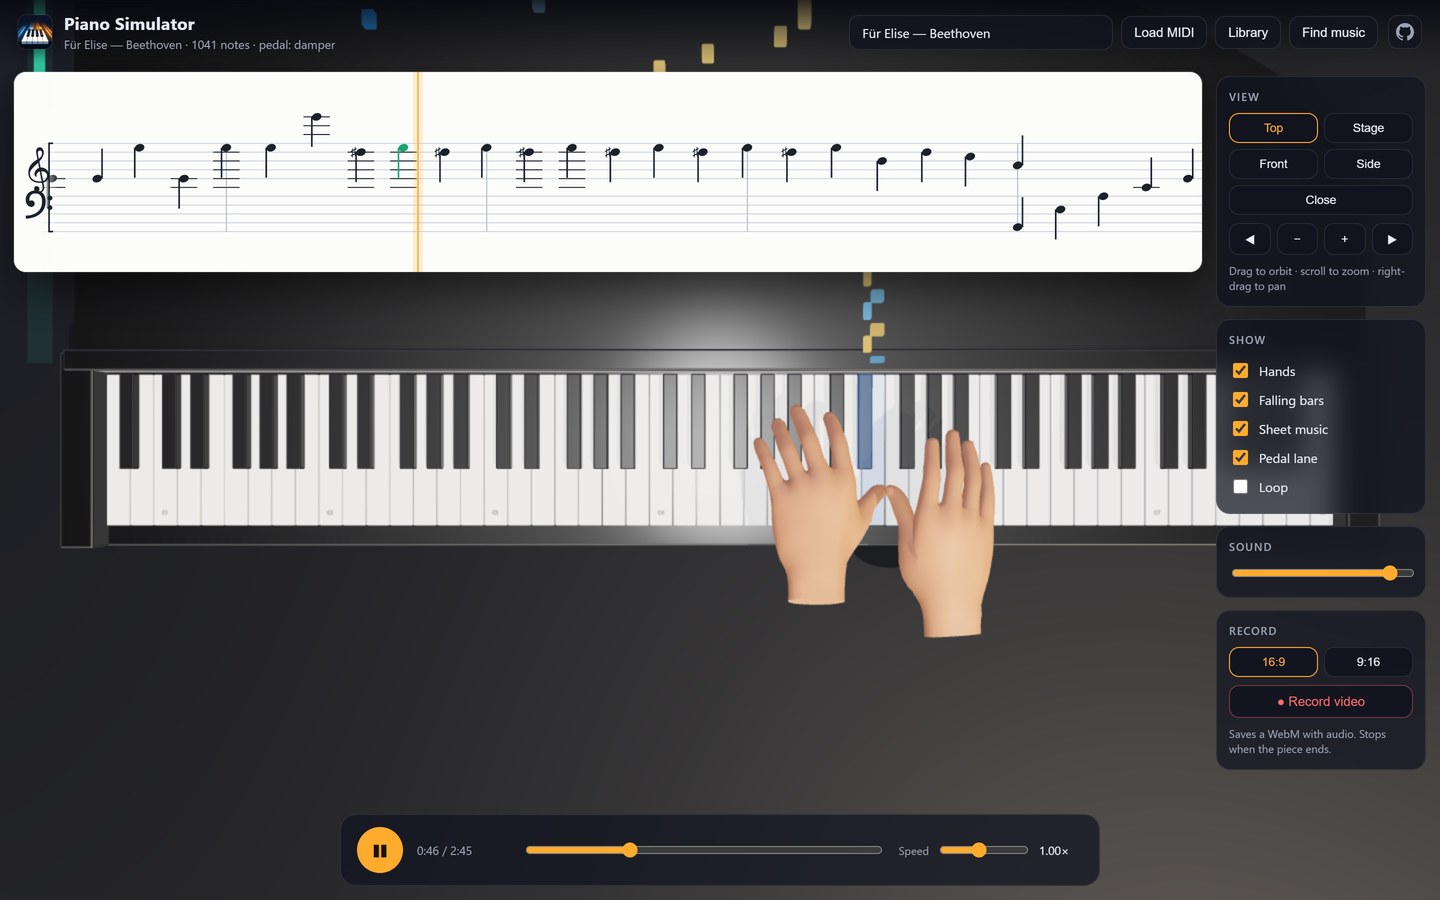
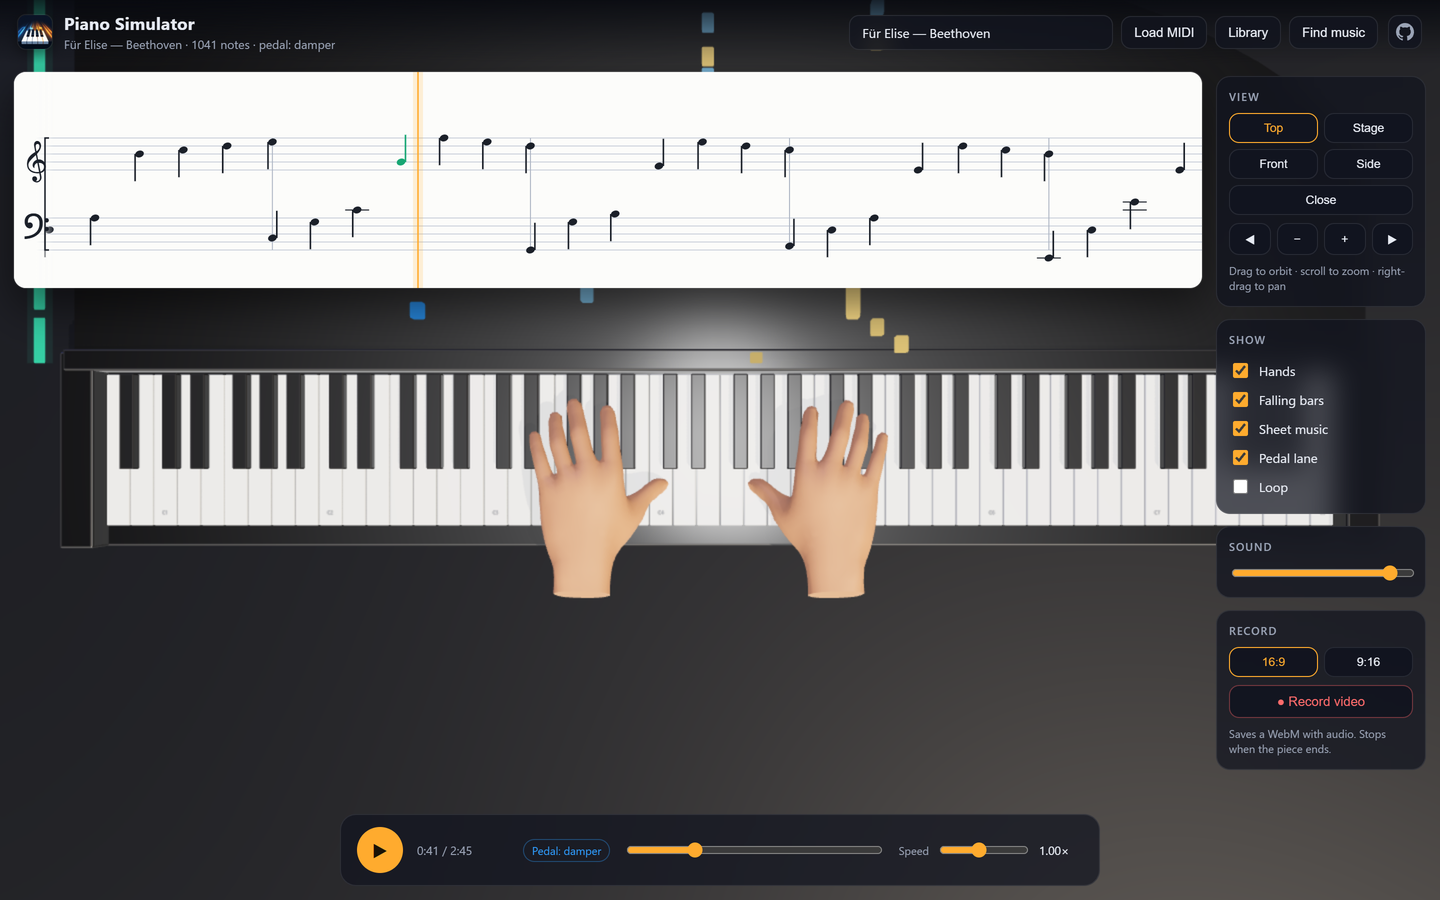
Open the gap between the two staves
The staves sat two line gaps apart, which reads as one crowded block.
A grand staff leaves about six gaps between the upper and lower staff,
so the layout now adds four gaps of air and the paper grows to hold it.

The lower staff also always reserves its own five lines, so a piece with
high notes only no longer draws that staff outside the paper.

diff --git a/src/score.js b/src/score.js
@@ -19,7 +19,7 @@ export const TREBLE_TOP_STEP = 38; // F5, the top line of the upper staff
 export const BASS_TOP_STEP = 26; // A3, the top line of the lower staff
 export const TREBLE_MID_STEP = 32; // G4, where the treble clef turns
 export const BASS_MID_STEP = 24; // F3, where the bass clef turns
-const STAFF_HALF_STEPS = 10; // five lines, four gaps, counted in steps
+const STAFF_STEPS = 8; // the steps between the outer lines of one staff
 
 export const PAD = 14; // paper above and below the staves, in px
 export const MAX_GAP = 11; // widest line gap, in px
@@ -27,6 +27,10 @@ export const MIN_GAP = 5.5; // narrowest line gap, in px
 export const HEAD_RX = 0.55; // notehead radius across, in line gaps
 export const HEAD_RY = 0.42; // notehead radius down, in line gaps
 export const STEM_LEN = 3.4; // stem length, in line gaps
+// Extra line gaps between the two staves of the grand staff. With the two gaps
+// the pitch grid already gives, the staves sit six gaps apart, which is the
+// spacing a printed piano score uses.
+export const STAFF_GAP = 4;
 export const CHUNK_SECONDS = 4; // how much music one scroll block holds
 export const PLAYHEAD_RATIO = 0.34; // where the notes cross the marker
 export const CHORD_WINDOW = 0.04; // notes this close share a stem, in seconds
@@ -150,8 +154,8 @@ export function layoutScore(notes, { bars = [], width = 1200, maxHeight = 190 } 
     .slice()
     .sort((a, b) => a.time - b.time || a.midi - b.midi);
 
-  let minStep = TREBLE_TOP_STEP - STAFF_HALF_STEPS;
-  let maxStep = TREBLE_TOP_STEP;
+  let minStep = BASS_TOP_STEP - STAFF_STEPS; // G2, the bottom line of the lower staff
+  let maxStep = TREBLE_TOP_STEP; // F5, the top line of the upper staff
   let midiMin = null;
   let midiMax = null;
   for (const note of sorted) {
@@ -163,13 +167,18 @@ export function layoutScore(notes, { bars = [], width = 1200, maxHeight = 190 } 
   }
 
   const topRef = Math.max(TREBLE_TOP_STEP, maxStep);
-  const bottomRef = Math.min(TREBLE_TOP_STEP - STAFF_HALF_STEPS, minStep);
+  const bottomRef = Math.min(BASS_TOP_STEP - STAFF_STEPS, minStep);
   const halfSteps = topRef - bottomRef;
-  const gap = clamp((maxHeight - 2 * PAD) / (halfSteps / 2), MIN_GAP, MAX_GAP);
-  const height = 2 * PAD + (halfSteps / 2) * gap;
+  // A grand staff leaves air between its two staves. The pitch grid already
+  // separates them by two line gaps, so STAFF_GAP adds the rest.
+  const gap = clamp((maxHeight - 2 * PAD) / (halfSteps / 2 + STAFF_GAP), MIN_GAP, MAX_GAP);
+  const staffShift = STAFF_GAP * gap;
+  const height = 2 * PAD + (halfSteps / 2) * gap + staffShift;
   const pxPerSecond = scrollSpeed(sorted, { width, gap });
 
-  const yOfStep = (step) => PAD + (topRef - step) * (gap / 2);
+  const yOfStep = (step, staff) => PAD + (topRef - step) * (gap / 2) + (staff === BASS ? staffShift : 0);
+  const trebleTopY = PAD + (topRef - TREBLE_TOP_STEP) * (gap / 2);
+  const bassTopY = trebleTopY + 6 * gap + staffShift;
   const glyphs = [];
   let i = 0;
   while (i < sorted.length) {
@@ -205,7 +214,17 @@ export function layoutScore(notes, { bars = [], width = 1200, maxHeight = 190 } 
     midiMin,
     midiMax,
     steps: { min: minStep, max: maxStep },
-    staves: { trebleTop: TREBLE_TOP_STEP, bassTop: BASS_TOP_STEP, topRef, bottomRef },
+    staves: {
+      trebleTop: TREBLE_TOP_STEP,
+      bassTop: BASS_TOP_STEP,
+      topRef,
+      bottomRef,
+      staffShift,
+      trebleTopY,
+      bassTopY,
+      bassBottomY: bassTopY + 4 * gap,
+      trebleBottomY: trebleTopY + 4 * gap,
+    },
     glyphs,
     bars: barSeconds,
     duration,
@@ -219,7 +238,7 @@ function glyphOf(chord, staff, { gap, yOfStep, pxPerSecond }) {
     return {
       midi: note.midi,
       step,
-      y: yOfStep(step),
+      y: yOfStep(step, staff),
       accidental,
       start: note.time,
       end: note.time + (note.duration || 0),
@@ -239,7 +258,7 @@ function glyphOf(chord, staff, { gap, yOfStep, pxPerSecond }) {
     : { x: -offset, y1: top, y2: bottom + STEM_LEN * gap };
 
   const ledgers = [...new Set(heads.flatMap((h) => ledgerStepsOf(h.step, staff)))].map((step) => ({
-    y: yOfStep(step),
+    y: yOfStep(step, staff),
     x1: -1.5 * gap,
     x2: 1.5 * gap,
   }));

diff --git a/src/scoreui.js b/src/scoreui.js
@@ -6,8 +6,8 @@
 // captures the canvas only, so the view hides the paper while a capture runs.
 
 import {
-  BASS, BASS_MID_STEP, HEAD_RX, HEAD_RY, PAD, TREBLE, TREBLE_MID_STEP,
-  layoutScore, staffTopStep,
+  BASS, BASS_MID_STEP, HEAD_RX, HEAD_RY, TREBLE, TREBLE_MID_STEP,
+  layoutScore,
 } from './score.js';
 
 const NS = 'http://www.w3.org/2000/svg';
@@ -114,7 +114,7 @@ export class ScoreView {
 
   _build() {
     const width = Math.max(260, Math.round(this.root.clientWidth || window.innerWidth * 0.7));
-    const maxHeight = Math.min(200, Math.max(96, window.innerHeight * 0.26));
+    const maxHeight = Math.min(216, Math.max(96, window.innerHeight * 0.28));
     const layout = layoutScore(this.notes, { bars: this.bars, width, maxHeight });
     this.layout = layout;
     this._clear();
@@ -162,19 +162,21 @@ export class ScoreView {
       SVG('rect', { x: 0, y: 0, width, height, fill: 'url(#sc-gutter)' }),
     );
 
-    const yOf = (step) => PAD + (layout.staves.topRef - step) * (gap / 2);
+    const staves = layout.staves;
+    const yOf = (step, staff) => (staff === BASS ? staves.bassTopY : staves.trebleTopY)
+      + ((staff === BASS ? staves.bassTop : staves.trebleTop) - step) * (gap / 2);
     const size = gap * 5;
     for (const [staff, step] of [[TREBLE, TREBLE_MID_STEP], [BASS, BASS_MID_STEP]]) {
       const clef = SVG('text', {
-        class: 'sc-clef', x: width * 0.56, y: yOf(step) + glyphOffset(CLEF[staff], size, CLEF_FONT),
+        class: 'sc-clef', x: width * 0.56, y: yOf(step, staff) + glyphOffset(CLEF[staff], size, CLEF_FONT),
         'font-size': size, 'text-anchor': 'middle',
       });
       clef.textContent = CLEF[staff];
       this.gutter.appendChild(clef);
     }
 
-    const top = yOf(staffTopStep(TREBLE));
-    const bottom = yOf(staffTopStep(BASS) - 8);
+    const top = staves.trebleTopY;
+    const bottom = staves.bassBottomY;
     this.gutter.appendChild(SVG('path', {
       class: 'sc-bracket',
       d: `M ${width - 5} ${top} h -4 v ${bottom - top} h 4`,
@@ -185,12 +187,11 @@ export class ScoreView {
   /** The staff lines stay put; each scroll block draws its own stretch. */
   _drawStaves() {
     const layout = this.layout;
-    const yOf = (step) => PAD + (layout.staves.topRef - step) * (layout.gap / 2);
     this.staves = SVG('g', { class: 'sc-staves' });
     for (const staff of [TREBLE, BASS]) {
-      const top = staffTopStep(staff);
+      const top = staff === TREBLE ? layout.staves.trebleTopY : layout.staves.bassTopY;
       for (let line = 0; line < 5; line++) {
-        const y = yOf(top - line * 2);
+        const y = top + line * layout.gap;
         this.staves.appendChild(SVG('line', {
           class: 'sc-line', x1: 0, x2: layout.width, y1: y, y2: y,
         }));
@@ -218,11 +219,10 @@ export class ScoreView {
     const start = index * layout.chunkSeconds;
     const span = layout.chunkSeconds * pxPerSecond;
     const x0 = start * pxPerSecond;
-    const yOf = (step) => PAD + (layout.staves.topRef - step) * (gap / 2);
     const block = SVG('g', { class: 'sc-block', transform: `translate(${x0} 0)` });
 
-    const trebleTop = yOf(staffTopStep(TREBLE));
-    const bassBottom = yOf(staffTopStep(BASS) - 8);
+    const trebleTop = layout.staves.trebleTopY;
+    const bassBottom = layout.staves.bassBottomY;
     for (const time of layout.bars) {
       if (time < start || time >= start + layout.chunkSeconds) continue;
       const x = (time - start) * pxPerSecond;
